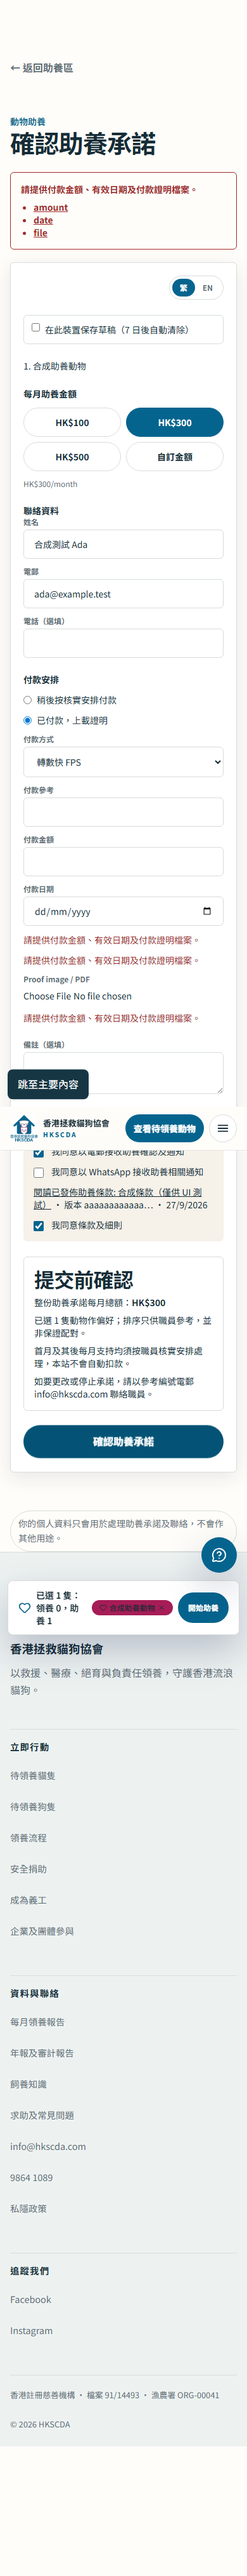
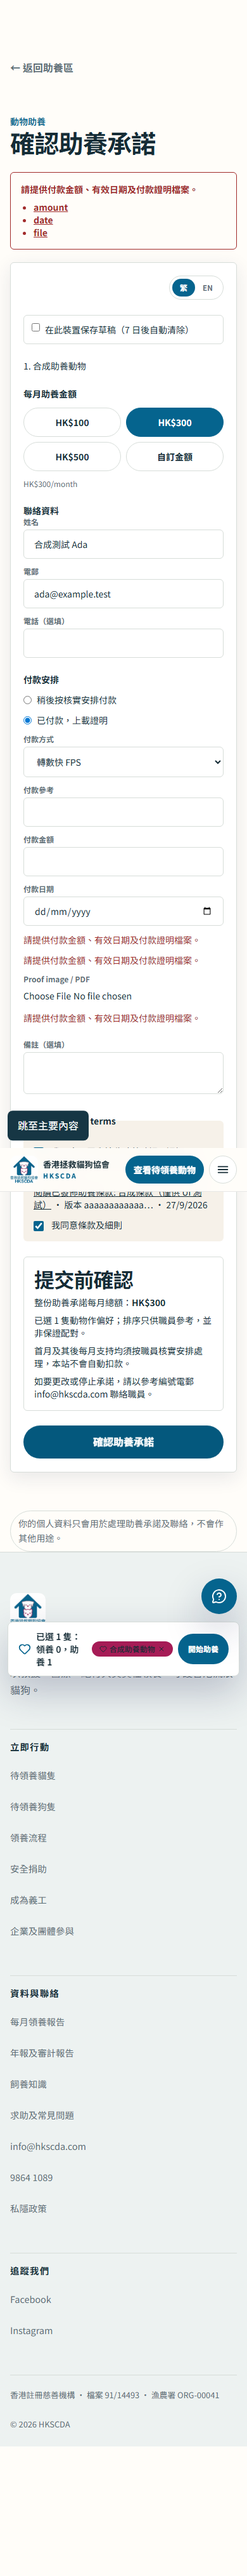
fix: preserve legacy pledge retries across terms upgrade

Changed region(s): [[0.0308, 0.5901, 0.9846, 0.6833], [0.0308, 0.4037, 0.8308, 0.4659], [0.8923, 0.4348, 0.9231, 0.4659]]

diff --git a/src/lib/sponsorship/schemas.ts b/src/lib/sponsorship/schemas.ts
@@ -49,70 +49,83 @@ export const sponsorshipPaymentProofMetadataSchema = z.object({
 
 export type SponsorshipPaymentProofMetadata = z.infer<typeof sponsorshipPaymentProofMetadataSchema>;
 
-export const sponsorshipPledgeSubmissionSchema = z
-  .object({
-    language: sponsorshipLanguageSchema,
-    monthlyTier: monthlyTierSchema,
-    customAmountCents: z.number().int().min(1000).optional(),
-    animalPreferences: z
-      .array(sponsorshipAnimalPreferenceSchema)
-      .min(1)
-      .max(MAX_SPONSORSHIP_PREFERENCES),
-    contact: z.object({
-      supporterName: trimmed.min(1),
-      email: trimmed.email().transform((email) => email.toLowerCase()),
-      phone: optionalTrimmed,
-    }),
-    consents: z.object({
-      email: z.boolean(),
-      whatsapp: z.boolean(),
-    }),
-    notes: optionalTrimmed,
-    proofMetadata: sponsorshipPaymentProofMetadataSchema.optional(),
-    terms: z.object({
-      agreed: z.literal(true),
-      version: z.string().regex(/^[a-f0-9]{64}$/),
-    }),
-  })
-  .superRefine((value, context) => {
-    const ranks = new Set(value.animalPreferences.map((animal) => animal.rank));
-    if (ranks.size !== value.animalPreferences.length) {
-      context.addIssue({
-        code: z.ZodIssueCode.custom,
-        path: ["animalPreferences"],
-        message: "Animal preference ranks must be unique",
-      });
-    }
+const createSponsorshipPledgeSchema = (termsVersion: z.ZodType<string, z.ZodTypeDef, unknown>) =>
+  z
+    .object({
+      language: sponsorshipLanguageSchema,
+      monthlyTier: monthlyTierSchema,
+      customAmountCents: z.number().int().min(1000).optional(),
+      animalPreferences: z
+        .array(sponsorshipAnimalPreferenceSchema)
+        .min(1)
+        .max(MAX_SPONSORSHIP_PREFERENCES),
+      contact: z.object({
+        supporterName: trimmed.min(1),
+        email: trimmed.email().transform((email) => email.toLowerCase()),
+        phone: optionalTrimmed,
+      }),
+      consents: z.object({
+        email: z.boolean(),
+        whatsapp: z.boolean(),
+      }),
+      notes: optionalTrimmed,
+      proofMetadata: sponsorshipPaymentProofMetadataSchema.optional(),
+      terms: z.object({
+        agreed: z.literal(true),
+        version: termsVersion,
+      }),
+    })
+    .superRefine((value, context) => {
+      const ranks = new Set(value.animalPreferences.map((animal) => animal.rank));
+      if (ranks.size !== value.animalPreferences.length) {
+        context.addIssue({
+          code: z.ZodIssueCode.custom,
+          path: ["animalPreferences"],
+          message: "Animal preference ranks must be unique",
+        });
+      }
 
-    const animalIds = new Set(value.animalPreferences.map((animal) => animal.animalId));
-    if (animalIds.size !== value.animalPreferences.length) {
-      context.addIssue({
-        code: z.ZodIssueCode.custom,
-        path: ["animalPreferences"],
-        message: "Each animal can only appear once",
-      });
-    }
+      const animalIds = new Set(value.animalPreferences.map((animal) => animal.animalId));
+      if (animalIds.size !== value.animalPreferences.length) {
+        context.addIssue({
+          code: z.ZodIssueCode.custom,
+          path: ["animalPreferences"],
+          message: "Each animal can only appear once",
+        });
+      }
 
-    if (value.monthlyTier === "custom") {
-      if (!value.customAmountCents || value.customAmountCents <= 0) {
+      if (value.monthlyTier === "custom") {
+        if (!value.customAmountCents || value.customAmountCents <= 0) {
+          context.addIssue({
+            code: z.ZodIssueCode.custom,
+            path: ["customAmountCents"],
+            message: "Custom amount must be a positive number of cents",
+          });
+        }
+      } else if (value.customAmountCents !== undefined) {
         context.addIssue({
           code: z.ZodIssueCode.custom,
           path: ["customAmountCents"],
-          message: "Custom amount must be a positive number of cents",
+          message: "Custom amount must not be set for a preset tier",
         });
       }
-    } else if (value.customAmountCents !== undefined) {
-      context.addIssue({
-        code: z.ZodIssueCode.custom,
-        path: ["customAmountCents"],
-        message: "Custom amount must not be set for a preset tier",
-      });
-    }
-  })
-  .transform((value) => ({
-    ...value,
-    animalPreferences: [...value.animalPreferences].sort((left, right) => left.rank - right.rank),
-  }));
+    })
+    .transform((value) => ({
+      ...value,
+      animalPreferences: [...value.animalPreferences].sort((left, right) => left.rank - right.rank),
+    }));
+
+export const sponsorshipPledgeSubmissionSchema = createSponsorshipPledgeSchema(
+  z.string().regex(/^[a-f0-9]{64}$/),
+);
+
+// Only the retry lookup may interpret the previous client's terms representation.
+// New submissions still have to match the current published content hash.
+export const sponsorshipPledgeRetrySchema = createSponsorshipPledgeSchema(
+  z
+    .union([z.string().regex(/^[a-f0-9]{64}$/), z.literal("sponsorship-terms-2026-07")])
+    .default("sponsorship-terms-2026-07"),
+);
 
 export type SponsorshipPledgeSubmission = z.infer<typeof sponsorshipPledgeSubmissionSchema>;
 export type SponsorshipPledgeStatus =

diff --git a/src/routes/api/sponsorships/pledges.legacyRetry.test.ts b/src/routes/api/sponsorships/pledges.legacyRetry.test.ts
@@ -1,0 +1,105 @@
+import { expect, test } from "bun:test";
+import { createSponsorshipPledgesHandler } from "./pledges";
+import {
+  fingerprintSponsorshipSubmission,
+  parseSponsorshipSubmission,
+} from "../../../lib/sponsorship/submission.server";
+
+const pledgeId = "cccccccc-dddd-4eee-8fff-000000000000";
+const statusToken = "A".repeat(43);
+const legacyVersion = "sponsorship-terms-2026-07";
+function body(version?: string) {
+  return {
+    pledgeId,
+    statusToken,
+    payload: {
+      language: "zh-HK",
+      monthlyTier: "300",
+      animalPreferences: [
+        {
+          rank: 1,
+          animalId: "11111111-2222-4333-8444-555555555555",
+          animalName: "Synthetic",
+          animalType: "sponsor",
+        },
+      ],
+      contact: { supporterName: "Synthetic", email: "test@example.test", phone: "91234567" },
+      consents: { email: false, whatsapp: false },
+      terms: { agreed: true, ...(version ? { version } : {}) },
+    },
+  };
+}
+for (const version of [legacyVersion, undefined]) {
+  test(`recovers completed legacy retry with ${version ? "explicit" : "historically defaulted"} terms`, async () => {
+    const normalized = parseSponsorshipSubmission(body("a".repeat(64)));
+    normalized.payload.terms.version = legacyVersion;
+    const expectedFingerprint = fingerprintSponsorshipSubmission(normalized);
+    let lookups = 0;
+    const handler = createSponsorshipPledgesHandler({
+      rateLimit: async () => ({ ok: true }),
+      createClient: () =>
+        ({}) as ReturnType<
+          typeof import("../../../lib/donations/supabase.server").createSupabaseServiceClient
+        >,
+      lookupRetry: async (_client, id, token, fingerprint) => {
+        lookups++;
+        expect([id, token, fingerprint]).toEqual([pledgeId, statusToken, expectedFingerprint]);
+        return {
+          kind: "recovered",
+          pledgeId,
+          reference: "SP-CCCCCCCC",
+          statusUrl: "https://example.test/status/original",
+        };
+      },
+      loadCurrentTerms: async () => {
+        throw new Error("completed retry must not reload terms");
+      },
+      persist: async () => {
+        throw new Error("completed retry must not write");
+      },
+      sendEmail: async () => {
+        throw new Error("completed retry must not resend");
+      },
+      logger: { error: () => {} },
+    });
+    const response = await handler(
+      new Request("https://example.test/api/sponsorships/pledges", {
+        method: "POST",
+        body: JSON.stringify(body(version)),
+      }),
+    );
+    expect(response.status).toBe(200);
+    expect(lookups).toBe(1);
+  });
+}
+
+test("legacy terms cannot authorize a new pledge", async () => {
+  let writes = 0;
+  const handler = createSponsorshipPledgesHandler({
+    rateLimit: async () => ({ ok: true }),
+    createClient: () =>
+      ({}) as ReturnType<
+        typeof import("../../../lib/donations/supabase.server").createSupabaseServiceClient
+      >,
+    lookupRetry: async () => ({ kind: "new" }),
+    loadCurrentTerms: async () => ({
+      version: "a".repeat(64),
+      title: "Synthetic",
+      documentUrl: "https://example.invalid/terms.pdf",
+      documentDate: "2026-09-29",
+    }),
+    persist: async () => {
+      writes++;
+      throw new Error("must not write");
+    },
+    logger: { error: () => {} },
+  });
+  const response = await handler(
+    new Request("https://example.test/api/sponsorships/pledges", {
+      method: "POST",
+      body: JSON.stringify(body(legacyVersion)),
+    }),
+  );
+  expect(response.status).toBe(409);
+  expect(writes).toBe(0);
+});

diff --git a/src/lib/sponsorship/submission.server.ts b/src/lib/sponsorship/submission.server.ts
@@ -10,6 +10,7 @@ import {
   type SponsorshipPledgeSubmission,
   type SponsorshipProofDescriptor,
   sponsorshipPledgeSubmissionSchema,
+  sponsorshipPledgeRetrySchema,
   toPaymentProofInsert,
   toPledgeInsert,
   toPreferenceInserts,
@@ -161,6 +162,7 @@ export type SponsorshipSubmissionRequestBody = {
 
 export function parseSponsorshipSubmission(
   body: unknown,
+  schema = sponsorshipPledgeSubmissionSchema,
 ): ParsedSponsorshipMultipart & { pledgeId: string; statusToken: string } {
   if (typeof body !== "object" || body === null) {
     throw new SubmissionValidationError("Invalid sponsorship pledge request body");
@@ -180,7 +182,7 @@ export function parseSponsorshipSubmission(
     throw new SubmissionValidationError("Invalid sponsorship status token");
   }
 
-  const parsed = sponsorshipPledgeSubmissionSchema.parse(raw.payload);
+  const parsed = schema.parse(raw.payload);
   const turnstileToken = typeof raw.turnstileToken === "string" ? raw.turnstileToken : undefined;
 
   const rawProof = raw.proof;
@@ -224,6 +226,10 @@ export function parseSponsorshipSubmission(
     pledgeId: raw.pledgeId,
     statusToken: raw.statusToken,
   };
+}
+
+export function parseSponsorshipRetry(body: unknown) {
+  return parseSponsorshipSubmission(body, sponsorshipPledgeRetrySchema);
 }
 
 type PersistSponsorshipPledgeInput = {

diff --git a/src/routes/api/sponsorships/pledges.ts b/src/routes/api/sponsorships/pledges.ts
@@ -9,6 +9,7 @@ import {
   isSubmissionValidationError,
   lookupSponsorshipPledgeRetry,
   parseSponsorshipSubmission,
+  parseSponsorshipRetry,
   persistSponsorshipPledge,
   sendPledgeConfirmationEmail,
   type SponsorshipPledgeRetry,
@@ -76,7 +77,7 @@ export function createSponsorshipPledgesHandler({
       window: "1 m",
       requireAvailability: true,
     }),
-  parse = parseSponsorshipSubmission,
+  parse = parseSponsorshipRetry,
   createClient = createSupabaseServiceClient,
   lookupRetry = lookupSponsorshipPledgeRetry,
   verify = verifyTurnstile,

diff --git a/docs/evidence/audit-remediation-20260927/sequential-merge-142-20260929.md b/docs/evidence/audit-remediation-20260927/sequential-merge-142-20260929.md
@@ -1,0 +1,40 @@
+# PR #142 sequential release and migration review — 2026-09-29
+
+Source base tested: 7b927f8da0beeba9192b095948f44c64eda2c03a plus the legacy-retry fix in this commit. Updated predecessor #141 is ce371ff. Production migration and terms publication have NOT been performed for this slice.
+
+## Reproduced upgrade defect and fix
+
+The strict new PDF-hash terms schema rejected a completed pre-upgrade request before the bearer/fingerprint retry lookup. `bun test --isolate src/routes/api/sponsorships/pledges.legacyRetry.test.ts` reproduced 3 failures, exit 1: old explicit/defaulted terms returned 400 instead of recovered 200; a new old-version request returned 400 rather than actionable 409.
+
+The shared schema now has an explicitly separate retry parser that also accepts the exact historical terms identifier/default. The public new-submission schema still requires an explicit content hash. A retry must still match pledge ID, bearer, expiry and canonical fingerprint; new writes must match currently published terms. No old terms are published or accepted for new pledges. Focused four-file route/schema/submission tests: exit 0, 57 pass, 0 fail, 131 assertions. An intermediate edit missed the parser parameter and failed with ReferenceError; corrected. Typecheck then detected the optional schema input type and was corrected to unknown input with string output.
+
+## Final local verification
+
+- `bun test --isolate` with CHECKOUT_POLICY_TEST_DATABASE_URL loopback 57322 and SUPABASE_LOCAL_URL loopback 52321: exit 0, 2852 pass, 83 skip, 0 fail, 8705 assertions across 483 files.
+- `bun run typecheck`: exit 0 after the schema input type correction.
+- `bun run lint`: exit 0; 53 warnings, zero errors.
+- `bun run build` with loopback fixture 54329 and placeholder keys: exit 0; generated route tree unchanged.
+- `node scripts/verify-sponsorship-commitment-mobile.mjs`, built preview 127.0.0.1:5184 and synthetic fixture: exit 0 at predecessor tree plus unchanged UI. 390x844 width; keyboard payment radio, proof errors before upload, mocked 400 field error and 409 stale terms preserve input. Two intercepted synthetic requests; no real pledge/upload/email/payment. Refreshed proof-errors-mobile.png.
+- Exact updated-head remote five-job CI: pending publication; must pass before merge after #141.
+
+## Single migration proposed for separate approval
+
+File: `supabase/migrations/20260927150000_sponsorship_terms_document_kind.sql`
+
[1 lines of base64/hex data omitted]
+
+Only three ALTER TABLE statements: extend document_assets_kind_check with sponsorship_terms and add a non-null checksum requirement for that kind. No rows, functions, grants, RLS policies, schedules or publication flags change.
+
+Production read-only preflight: document_assets and site_document_slots exist with RLS enabled. The existing kind constraint contains only annual_report/wedding_form/adoption_guide; the sponsorship checksum constraint is absent. Sponsorship documents and published terms slots both count zero. Checkout is false. No RPC signature changes are involved.
+
+Isolated rehearsal environment: database audit_pr135_20260929 in supabase_db_hkscda-audit-integration-fresh; production public/private schema only, local supporting schemas, synthetic rows only, with approved predecessor DDL already rehearsed. Applied this one SQL file using `psql -X -1 -v ON_ERROR_STOP=1`: exit 0. `psql -X -v ON_ERROR_STOP=1` on scripts/test-sponsorship-terms-db.sql: exit 0; rejects missing checksum, RLS/grants assertions pass, anon sees published synthetic terms and cannot see draft, all rows rolled back. A transaction rehearsed restoring the old kind constraint and removing the added constraint while zero new-kind rows exist; exit 0; transaction rolled back to retain rehearsal schema.
+
[1 lines of base64/hex data omitted]
+
+## Rollback and operational boundary
+
+Prefer reverting application code while retaining additive schema. Restoring the old kind constraint is safe only if there are no sponsorship_terms rows; never delete documents or consent history to force rollback. Preserve existing pledge status links, proofs, bearer/fingerprint retry behavior and payment reconciliation.
+
+Approved zh-HK/en terms PDFs and audited slot publication remain external blockers. Without published terms, new sponsorship submissions stay closed (503); completed matching retries remain recoverable. Applying this migration will NOT publish terms or enable this workflow. No payment activation, CRON_SECRET, new email scheduler, historical replay, real notifications or refunds are authorized. Full real-content journey/provider sandbox tests are not-run.
+
+#134–#139 are merged. #139 merge 379fa0e128a136b9a4877c49b518b620007a55e0, PR CI 36507431928 five jobs passed; deployment dpl_9sEkJbWdwJtnf4ocQK83BdepGq8G READY. #140/#141 still await sequential merge at this record.
